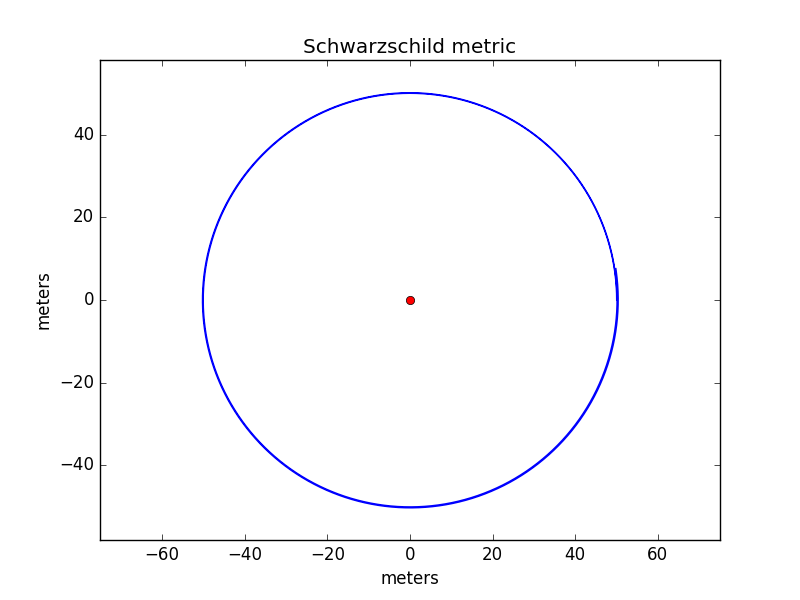
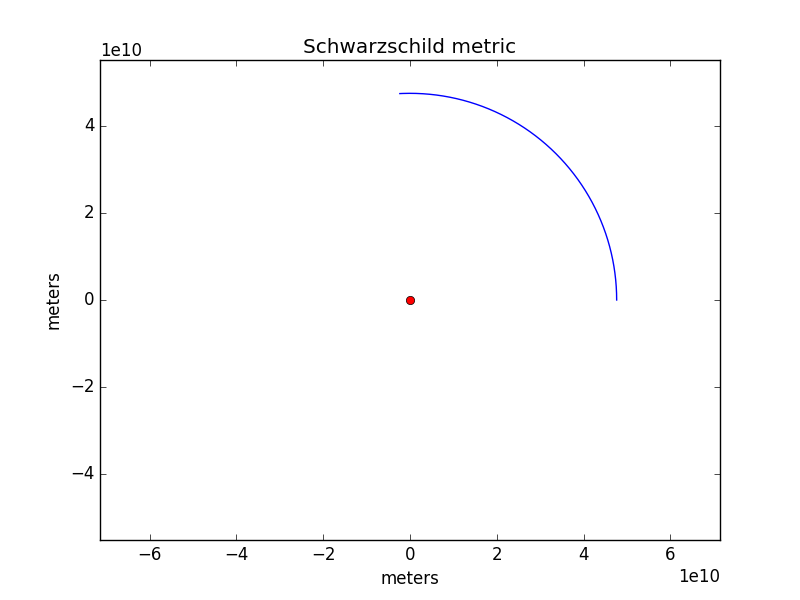
Working!
Now to just comment and make the poster

diff --git a/Labs/Project_2_wobble.py b/Labs/Project_2_wobble.py
@@ -1,0 +1,70 @@
+# Imports
+import numpy as np
+import matplotlib.pyplot as plt
+import scipy.integrate as inter
+
+# # These are the constants and masses in SI units
+# M = 1.9884E30
+# m = 3.30104E23
+# G = 6.674E-11
+# c = 3E8
+
+# # Define starting conditions in SI units
+# th0 = np.pi
+# dt0 = -1.255E-6
+# r0 = 47E9
+# dr0 = 0
+
+# These are the constants and masses in geometric units
+M = 1477
+m = 2.451E-4
+G = 1
+c = 1
+
+# Define starting conditions in geometric units
+r0 = 4.7607E10
+dr0 = 0
+th0 = 0
+dt0 = 4.0833
+w0 = 0.177
+dw0 = 0
+rc = 57.9E9
+uc = 1/rc
+
+orbits = 1000
+
+res = orbits*1000
+
+# Create a list of times, the orbital period is 8.
+angles = np.linspace(0,orbits*2*np.pi,res)
+
+# Store the initial conditions in an array.
+p0 = [w0,dw0]
+
+# h = p0[3]*p0[0]/(r0*np.sqrt(r0-3))
+
+# Define a function to find the derivative of each component of r.
+def Edr(p,t):
+
+	# initialize an array of zeros.
+	v = np.zeros_like(p)
+
+	v[0] = p[1]
+	v[1] = -p[0]*(1-6*M*uc) + 3*M*uc*p[0]**2
+	
+	return v
+
+Ein = inter.odeint(Edr,p0,angles)
+
+upoints = uc*(1+Ein[:,0])
+rpoints = 1/upoints
+
+plt.plot(np.cos(angles[0:res])*rpoints[0:res],np.sin(angles[0:res])*rpoints[0:res])
+# plt.plot(np.cos(angles[-res:-1])*rpoints[-res:-1],np.sin(angles[-res:-1])*rpoints[-res:-1])
+plt.plot(0,0,'ro')
+plt.title('Schwarzschild metric')
+plt.xlabel('meters')
+plt.ylabel('meters')
+plt.axes().set_aspect('equal', 'datalim')
+plt.savefig('Schwarz_plot_wobble.png')
+plt.show()

diff --git a/Labs/Project_2_step2.py b/Labs/Project_2_step2.py
@@ -4,26 +4,26 @@ import matplotlib.pyplot as plt
 import scipy.integrate as inter
 
 # These are the constants and masses in geometric units
-M = 1
+M = 1477
 m = 2.451E-4
 G = 1
 c = 1
 
 # Define starting conditions in geometric units
-r0 = 50
+r0 = 4.7607E10
 dr0 = 0
 th0 = 0
-dt0 = 0.75
+dt0 = 4.0833E-15
 
 # Create a list of times, the orbital period is 8.
 a = 0
-b = 170000
-h = 1E-6
+b = 170000000
+h = 1
 
 # Store the initial conditions in an array.
 p0 = [r0,th0,dr0,dt0]
 
-l = p0[3]*p0[0]**2
+l = m*p0[3]*p0[0]**2
 
 def step(r,p):
 	newr = 2*r[-1] - r[-2] + h**2 * (-M/r[-1]**2 + l**2 / r[-1]**3 - 3*M*l**2 / r[-1]**4)
@@ -53,6 +53,12 @@ for t in range(a,b):
 	newr, newt = step(rpos,tpos)
 	rpos.append(newr)
 	tpos.append(newt)
+
+minimum = np.amin(rpos)
+maximum = np.amax(rpos)
+
+print(minimum)
+print(maximum)
 
 plt.plot(np.multiply(rpos,np.cos(tpos)),np.multiply(rpos,np.sin(tpos)),'b')
 plt.plot(0,0,'ro')

diff --git a/Labs/Project_2_step.py b/Labs/Project_2_step.py
@@ -17,13 +17,13 @@ dt0 = 4.0833E-15
 
 # Create a list of times, the orbital period is 8.
 a = 0
-b = 170000
+b = 170000000
 h = 1
 
 # Store the initial conditions in an array.
 p0 = [r0,th0,dr0,dt0]
 
-l = p0[3]*p0[0]**2
+l = m*p0[3]*p0[0]**2
 
 def step(r,p):
 	newr = 2*r[-1] - r[-2] + h**2 * (-M/r[-1]**2 + l**2 / r[-1]**3 - 3*M*l**2 / r[-1]**4)
